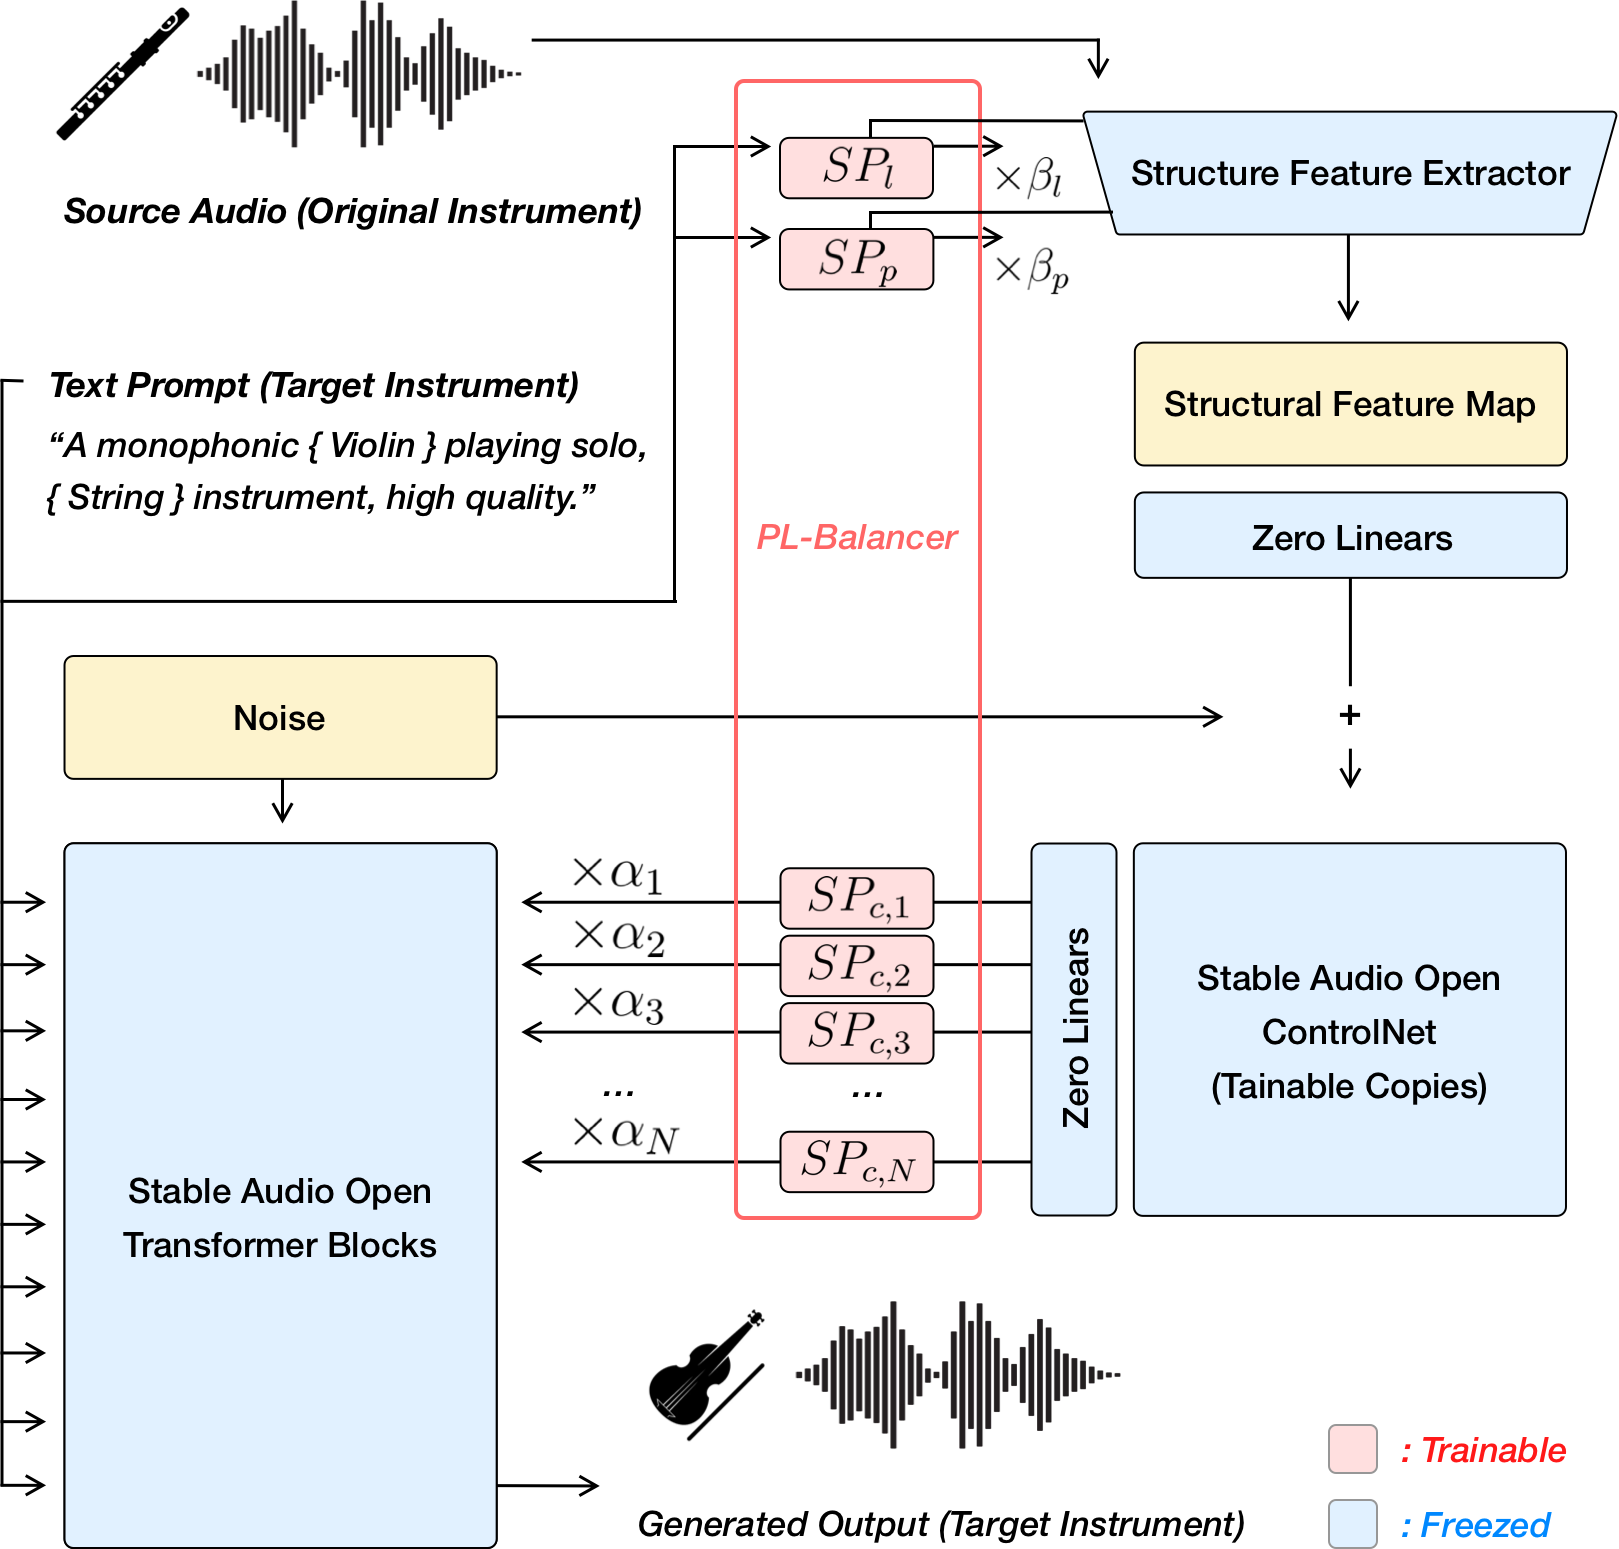
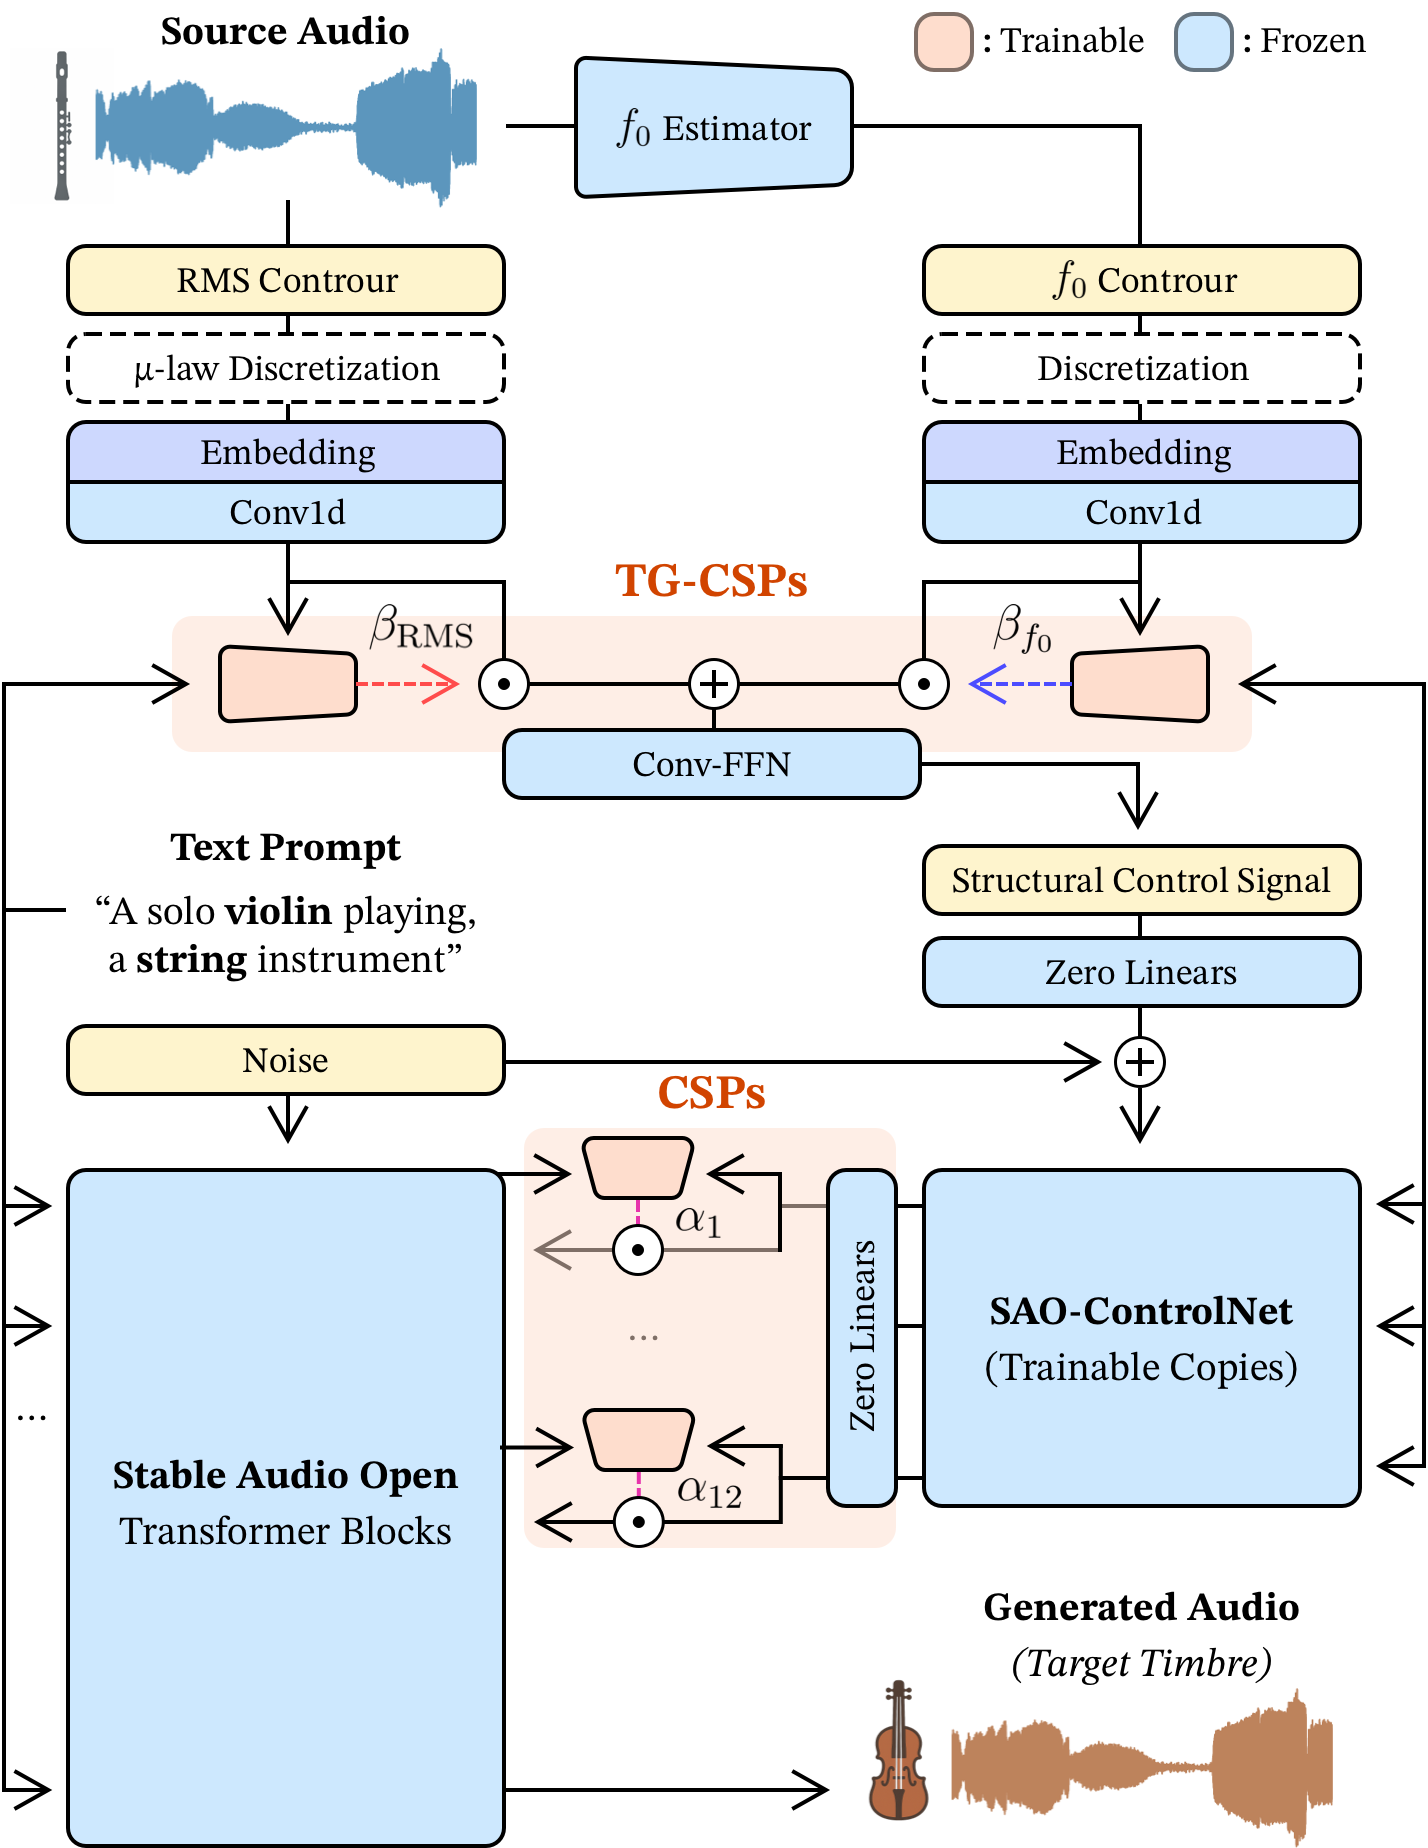
Update timbre transfer page title, abstract, and architecture figures

diff --git a/inst-timbre-transfer/index.html b/inst-timbre-transfer/index.html
@@ -243,7 +243,7 @@
 
     <main class="container">
         <section>
-            <h1>Any-to-Any Timbre Transfer for Musical Instruments with Adaptive Pitch-Loudness Balancing</h1>
+            <h1>Text-Guided Instrument Timbre Transfer with Target-Adaptive Structural Control</h1>
             <!-- <p class="subtitle">Pitch-Loudness Balancer (PL-Balancer) for Source-Target Context-Aware Timbre Transfer</p> -->
             
             <div class="tags">
@@ -256,11 +256,15 @@
             <div class="methodology">
                 <h3>Abstract</h3>
                 <p>
-                    Timbre transfer aims to transform the timbral characteristics of a source audio while preserving its structural content. Recent advances in neural-based timbre transfer have demonstrated remarkable capabilities in generating high-quality audio with target timbres. However, despite significant advances in timbre transfer with neural-based methods, previous approaches have typically overlooked the conceptual ambiguity of "timbre", often assuming that pitch and timbral features can be independently disentangled and replaced with those of another instrument. Consequently, these methods often struggle to resolve conflicts stemming from the inherent instrument-specific attributes of the source structure and the target timbre, resulting in unnatural transferred audio containing acoustic artifacts and timbral ambiguity.
+                    ...
                 </p>
-                <p>
-                    To address this, we propose a novel adaptive timbre transfer framework, which combines pretrained Text-to-Audio models with a ControlNet branch and Pitch Loudness Balancer (PL-Balancer) module to systematically account for the interdependency of pitch, loudness, and timbre. Unlike existing methods relying on a timbre-structure disentanglement or standardized spatiotemporal structural conditioning, our PL-Balancer dynamically adjusts the influence of each source structural signal according to the target instrument, recognizing that the intersections between pitch, loudness, and timbre varies across source-target pairs.
-                </p>
+            </div>
+        </section>
+
+        <section>
+            <h2 class="section-title">Core Concept of AdaTransfer</h2>
+            <div style="text-align: center; margin: 40px 0;">
+                <img src="figs/fig_core-concept.png" alt="Core Concept of AdaTransfer" style="max-width: 100%; height: auto; border-radius: 8px;">
             </div>
         </section>
 
@@ -269,7 +273,11 @@
             
             <div style="text-align: center; margin: 40px 0;">
                 <img src="figs/final-architecture_high-level.png" alt="Final Architecture Diagram" style="max-width: 100%; height: auto; border-radius: 8px;">
-                <p style="margin-top: 15px; color: var(--secondary-text-color); font-size: 0.9rem;"><em>Overall architecture of our proposed PL-Balancer framework</em></p>
+            </div>
+
+            <div style="text-align: center; margin: 40px 0;">
+                <img src="figs/fig_scale-predictor-freezed.png" alt="Scale Predictor Freezed Diagram" style="max-width: 100%; height: auto; border-radius: 8px;">
+                <p style="margin-top: 15px; color: var(--secondary-text-color); font-size: 0.9rem;"><em>Overall architecture of AdaTransfer, integrating two sets of lightweight modules into frozen SAO-ControlNet.</em></p>
             </div>
             
             <!--

diff --git a/index.html b/index.html
@@ -397,7 +397,7 @@
             <h2 class="section-title">Publications</h2>
             <ul class="item-list">
                 <li>
-                    <h3><a href="#">Any-to-Any Timbre Transfer for Musical Instruments with Adaptive Pitch-Loudness Balancing</a></h3>
+                    <h3><a href="#">Text-Guided Instrument Timbre Transfer with Target-Adaptive Structural Control</a></h3>
                     <p class="authors"><strong>Dabin Kim</strong>, Juhan Nam</p>
                     <p class="venue"><em>Master's Thesis, planned for ICASSP 2026 Submission</em></p>
                     <!--
